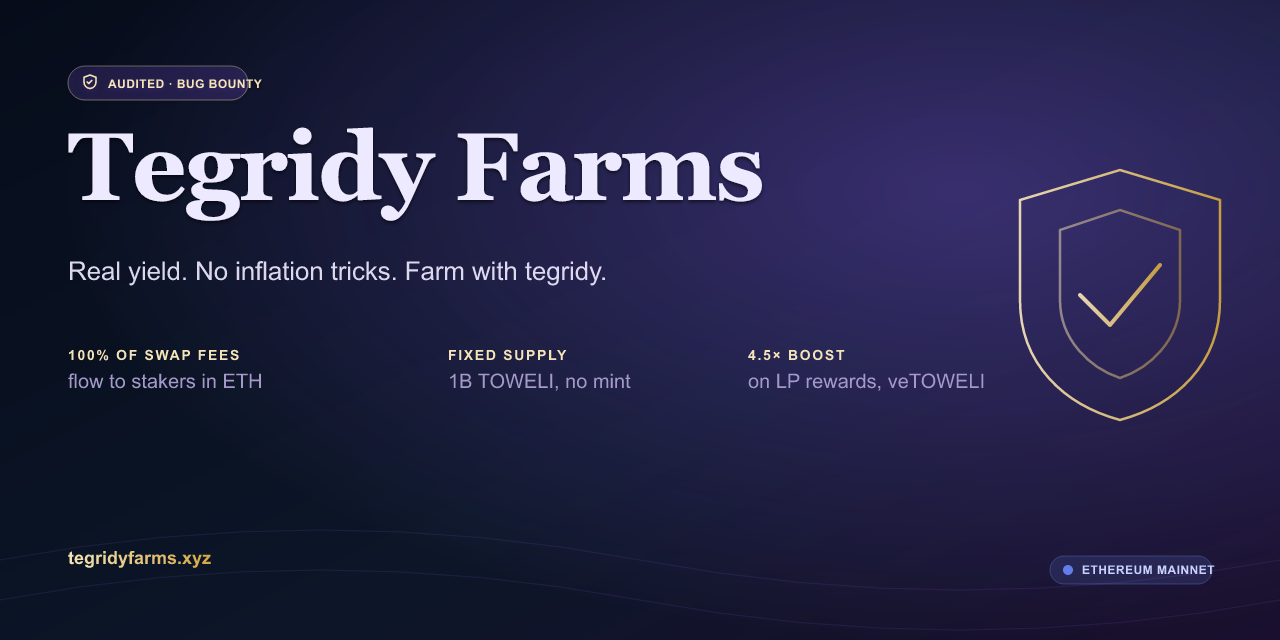
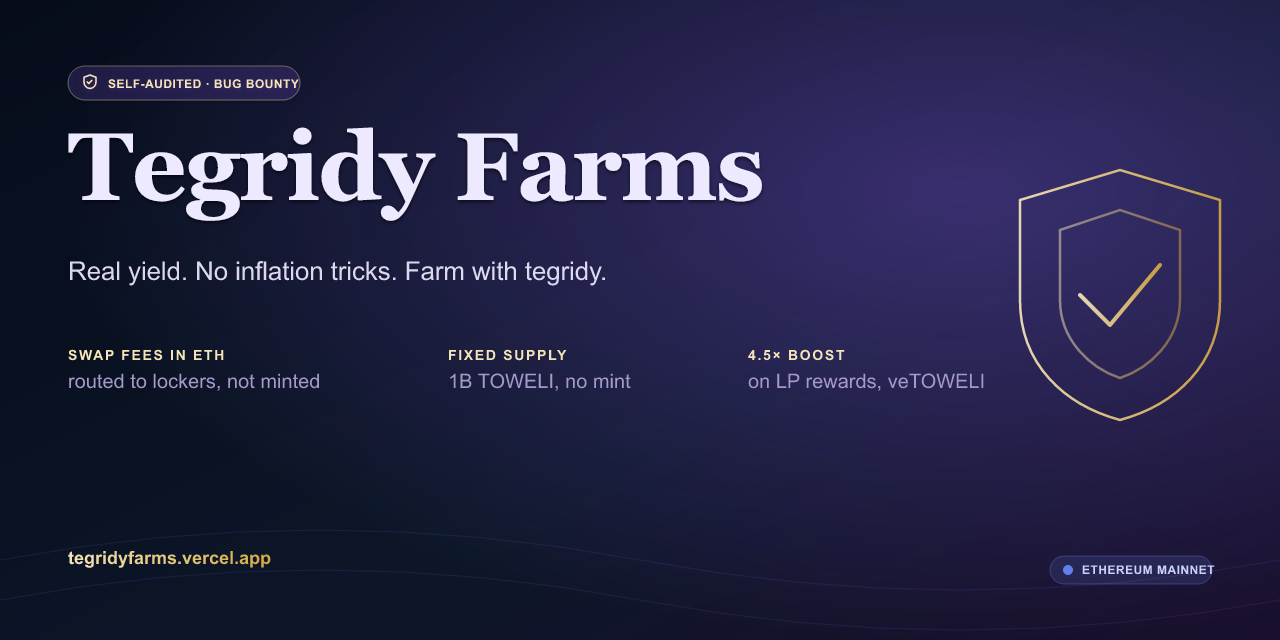
fix(honesty): retire ghost links, false claims, and dead references across shipped surfaces
- LaunchPage + CurveLaunchPage: stop linking the removed /solana-launch
  route with copy claiming the retired Meteora rail exists; say the
  retirement out loud and point at the surviving curve. meteoraRetired
  tripwire extended to catch in-page JSX links (the gap both shipped
  through).
- og.svg/og.png: drop the retracted '100% OF SWAP FEES' claim every
  social unfurl still showed, correct 4.5x boost to the real 4.0x, and
  replace the deprecated vercel.app origin with memetic.fun. Regenerated
  via scripts/render-og-png.mjs (docs/banner.png rides along).
- security.txt: canonical + scope now name memetic.fun (was only the
  vercel.app origin it is served from).
- vercel.json: vanity redirects /tradermigos -> /nakamigos and
  /scanner -> /scan (both 404'd as typed URLs of the products' own names).
- theme-init.js: stop honoring the removed 'light' value.
- referrals.js cited api/__tests__/referrals-surface-parity.test.js as
  pinning its service-role query shape; that file did not exist. It does
  now, and pins exactly what the comment promises.
- constants.ts: restaking comment updated (split LANDED 08-19; gate is
  the re-audit + a real Safe, not size).
- AUDITS.md: remove the Immunefi bounty link that never existed.
- AUDIT_RFQ.md: correct 'Not deployed' — both programs deployed 08-08
  and were closed by 08-15; ids permanently spent.
- cp-swap lib.rs: delete the two header paragraphs instructing the exact
[…]

Changed region(s): [[0.0312, 0.5312, 0.25, 0.625], [0.0938, 0.0938, 0.25, 0.1562], [0.125, 0.8438, 0.2188, 0.9062]]

diff --git a/frontend/api/__tests__/referrals-surface-parity.test.js b/frontend/api/__tests__/referrals-surface-parity.test.js
@@ -1,0 +1,54 @@
+// The referrals service-role query stays shape-pinned.
+//
+// _lib/referrals.js:60 has cited this file by name since the resolve surface
+// shipped — but the file did not exist until 2026-08-24, so the "shape-pinned
+// by" claim was read-laundering: a safety property asserted in prose with no
+// enforcement behind it. This is the enforcement.
+//
+// WHY THE PIN MATTERS: `resolve` is the table's public face and runs under the
+// SERVICE ROLE, which bypasses RLS entirely. The query filter is therefore the
+// whole access control: `select=wallet` + `code=eq.<one code>` + `limit=1`
+// answers "who owns THIS code" and nothing else. A second service-role query,
+// a `select=*`, or a missing eq-filter turns it into an enumeration of every
+// referrer's wallet, readable by anyone — the exact shape airdrop.js refuses
+// to expose a recipient list for.
+
+import { describe, it, expect } from "vitest";
+import { readFileSync } from "node:fs";
+import { fileURLToPath } from "node:url";
+import { dirname, join } from "node:path";
+
+const HERE = dirname(fileURLToPath(import.meta.url));
+const SRC = readFileSync(join(HERE, "..", "_lib", "referrals.js"), "utf8");
+
+/** Lines of actual code — comments stripped so prose can discuss the ban. */
+const CODE = SRC.split("\n")
+  .map((l) => l.replace(/\/\/.*$/, "").replace(/^\s*\*.*$/, ""))
+  .join("\n");
+
+describe("referrals service-role surface parity", () => {
+  it("exactly one query passes the service key, and it is the pinned resolve shape", () => {
+    // The service key appears once in configuration and once at the resolve
+    // call site. Any additional `key: cfg.serviceKey` is a new RLS-bypassing
+    // query this test exists to refuse.
+    const serviceUses = CODE.match(/key:\s*cfg\.serviceKey/g) ?? [];
+    expect(serviceUses).toHaveLength(1);
+  });
+
+  it("the resolve query selects only the wallet column, filtered to one code, limit 1", () => {
+    const pinned = CODE.match(
+      /\?select=wallet&code=eq\.\$\{encodeURIComponent\(raw\)\}&limit=1/g,
+    ) ?? [];
+    expect(pinned, "the pinned resolve query shape changed or disappeared").toHaveLength(1);
+  });
+
+  it("no query on the table ever selects *", () => {
+    expect(CODE.includes("select=*"), "select=* on referral_codes enumerates every referrer's wallet").toBe(false);
+  });
+
+  it("the JWT-scoped queries use the anon key, never the service key", () => {
+    // `mine` and `claim` must ride the caller's own SIWE JWT through RLS.
+    const anonUses = CODE.match(/key:\s*cfg\.anonKey/g) ?? [];
+    expect(anonUses.length).toBeGreaterThanOrEqual(2);
+  });
+});

diff --git a/frontend/src/lib/launcher/meteoraRetired.test.ts b/frontend/src/lib/launcher/meteoraRetired.test.ts
@@ -142,6 +142,33 @@ describe('the Meteora DBC rail stays retired', () => {
     expect(offenders, `retired-rail claims still in shipped copy:\n${offenders.join('\n')}`).toEqual([]);
   });
 
+  it('no shipped JSX links to the removed route', () => {
+    // Added 2026-08-24: LaunchPage.tsx:1199 and CurveLaunchPage.tsx:819 shipped
+    // live <Link to="/solana-launch"> cross-links for a day after the retirement
+    // — the ROUTE_DEFINITIONS guard above checks only App.tsx and navConfig, so
+    // in-page links dead-ending on the 404 sailed straight through. This scans
+    // every shipped file for a Link/navigate to the removed route. Test files
+    // are exempt (navConfig.test legitimately asserts the entry is absent).
+    const LINK_RE = /\bto=["']\/solana-launch["']/;
+    const NAV_RE = /navigate\(\s*["']\/solana-launch["']/;
+    // Guard the guard: the exact line that shipped must match.
+    expect(LINK_RE.test('<Link to="/solana-launch" className="underline">')).toBe(true);
+
+    const offenders: string[] = [];
+    for (const file of walk(SRC)) {
+      if (/\.test\.tsx?$/.test(file)) continue;
+      readFileSync(file, 'utf8')
+        .split(/\r?\n/)
+        .forEach((line, i) => {
+          const code = codeOnly(line);
+          if (LINK_RE.test(code) || NAV_RE.test(code)) {
+            offenders.push(`${file.slice(SRC.length + 1)}:${i + 1} — ${line.trim().slice(0, 120)}`);
+          }
+        });
+    }
+    expect(offenders, `live links to the removed /solana-launch route:\n${offenders.join('\n')}`).toEqual([]);
+  });
+
   it('still allows the history to be written down', () => {
     // Guard the guard. If the patterns ever widen into a blanket ban on the word, the
     // registry entries and every retirement note become unwritable, and the next session

diff --git a/frontend/src/pages/LaunchPage.tsx b/frontend/src/pages/LaunchPage.tsx
@@ -1189,15 +1189,15 @@ function LauncherExplainer() {
         Planning a launch? Preview your distribution band and Fact-Sheet tier and fix concentration first with the{' '}
         <Link to="/launch-simulator" className="text-emerald-400/80 hover:text-emerald-300 underline transition-colors">Launch Simulator</Link>.
       </p>
-      {/* Cross-link to the Solana sub-brand rail. Secondary by design: the destination is a
-          CONFIG PREVIEW with no in-app submit path (SOLANA_LAUNCHER_ENABLED = true since
-          2026-07-27, but the page never signs), so this is wayfinding, not a call to
-          action. Fee capture only — no TOWELI on Solana. */}
+      {/* The Meteora rail was retired 2026-08-23 and /solana-launch was removed with
+          deliberately no redirect — this cross-link now points at the surviving Solana
+          surface (our own curve) and says the retirement out loud rather than implying
+          a rail that no longer exists. */}
       <p className="text-white/40 text-xs leading-relaxed">
-        There is also a Solana leg — a separate fee-capture sub-brand over Meteora&rsquo;s Dynamic Bonding Curve, with no
-        TOWELI on Solana and no AMM of our own there. You sign and submit that launch yourself.{' '}
-        <Link to="/solana-launch" className="text-white/60 hover:text-white underline transition-colors">
-          See the Solana rail
+        The old Solana leg over Meteora&rsquo;s Dynamic Bonding Curve was retired on 2026-08-23. The Solana story now runs
+        through our own curve program — no TOWELI on Solana, fee capture only.{' '}
+        <Link to="/curve-launch" className="text-white/60 hover:text-white underline transition-colors">
+          See the Tegridy Curve
         </Link>
       </p>
     </div>

diff --git a/frontend/public/theme-init.js b/frontend/public/theme-init.js
@@ -10,13 +10,17 @@
  * 'unsafe-inline' from script-src in vercel.json.
  */
 (function () {
+  // The app is dark-only: the light theme was removed and ThemeContext migrates
+  // any stale `tegridy-theme: 'light'` out of localStorage on mount. Honoring
+  // 'light' here stamped data-theme="light" + a lavender theme-color for the
+  // pre-hydration window with no light CSS behind it. Always dark; the
+  // localStorage read stays only so the storage key remains documented in one
+  // greppable place alongside ThemeContext.
   try {
-    var t = localStorage.getItem('tegridy-theme');
-    if (t !== 'dark' && t !== 'light') t = 'dark';
-    document.documentElement.setAttribute('data-theme', t);
-    var meta = document.querySelector('meta[name="theme-color"]');
-    if (meta) meta.setAttribute('content', t === 'dark' ? '#060c1a' : '#f5f3ff');
-  } catch (_e) {
     document.documentElement.setAttribute('data-theme', 'dark');
+    var meta = document.querySelector('meta[name="theme-color"]');
+    if (meta) meta.setAttribute('content', '#060c1a');
+  } catch (_e) {
+    /* dark is the default markup state; nothing to recover */
   }
 })();

diff --git a/frontend/src/lib/constants.ts b/frontend/src/lib/constants.ts
@@ -20,7 +20,10 @@ export const LEGACY_STAKING_ADDRESSES = [
   '0x044A925839ac3CEC0bccC93d00230f39FFbeEe44',
   '0x626644523d34B84818df602c991B4a06789C4819',
 ] as const;
-// Restaking DEFERRED to Phase 7 (EIP-170 split). Zeroed until deployed; UI gates on isDeployed().
+// Restaking: the EIP-170 split LANDED 2026-08-19 (admin sister, host 22,114 B —
+// 2,462 B under the limit). Deploy is now gated on the external re-audit and a
+// real Safe for MULTISIG (docs/OPERATOR_NEXT.md §C4/§C5), not on size or a
+// build. Zeroed until deployed; UI gates on isDeployed().
 export const TEGRIDY_RESTAKING_ADDRESS = '0x0000000000000000000000000000000000000000' as const;
 
 // EIP-170 admin sister contracts — RELAUNCH 2026-06-06 (deployed + wired by DeployMVP).

diff --git a/frontend/src/pages/CurveLaunchPage.tsx b/frontend/src/pages/CurveLaunchPage.tsx
@@ -816,10 +816,7 @@ function CurveExplainer() {
           and closes the curve — all or nothing, so there is no half-migrated state to get stuck in.
         </p>
         <p className="text-white/40">
-          <Link to="/solana-launch" className="text-white/60 hover:text-white underline transition-colors">
-            The Meteora rail
-          </Link>{' '}
-          is a separate surface and is unaffected by any of this.
+          The Meteora rail was retired on 2026-08-23 — this curve is now the only Solana launch surface here.
         </p>
       </Card>
 

diff --git a/solana/tegridy-amm/programs/cp-swap/src/lib.rs b/solana/tegridy-amm/programs/cp-swap/src/lib.rs
@@ -30,14 +30,12 @@ solana_security_txt::security_txt! {
 // NOT here: it accrues per `amm_config.protocol_fee_rate` and is collected by
 // `amm_config.protocol_owner` (which create_config sets = the admin caller).
 //
-// FAIL-CLOSED MAINNET: the non-devnet branches of the AUTHORITY constants are the
-// System-Program sentinel (all-1s), NOT the devnet keys — so an accidental default
-// (non-devnet) build yields a NON-FUNCTIONAL program (admin can't sign; the fee
-// receiver isn't a token account) rather than one silently controlled by the devnet
-// throwaway keys. CI + devnet builds pass `--features devnet`.
-// ⚠ OPERATOR before MAINNET: set the non-devnet values — a fresh program keypair,
-// admin = Squads MULTISIG, create_pool_fee_reveiver = the treasury's WSOL ATA (a
-// native-SOL TOKEN ACCOUNT, NOT a wallet) — then do a verifiable build.
+// (Two header paragraphs deleted 2026-08-24: one claimed the non-devnet authority
+// constants were fail-closed all-1s sentinels — false, the real values below are
+// live keys — and one instructed "admin = Squads MULTISIG", the exact compile-time
+// mistake that shipped 2026-08-08 and bricked graduation. The authoritative
+// guidance is the admin module's own comment below: the constant must be a
+// SIGNABLE, SYSTEM-OWNED, rent-paying account, never the Squads multisig account.)
 #[cfg(feature = "devnet")]
 declare_id!("BvBkt84ZiKmiPSuWrdefxbxPTX5YiLnU6YEGtY6pDodL");
 #[cfg(not(feature = "devnet"))]

diff --git a/solana/tegridy-amm/AUDIT_RFQ.md b/solana/tegridy-amm/AUDIT_RFQ.md
@@ -104,9 +104,12 @@ permissionless total-loss bug and was removed; see `MIGRATE_DESIGN.md`.
 - The migration surplus is swept to whoever calls `migrate_to_amm`, deliberately — it makes
   a permissionless step self-financing rather than a guaranteed loss.
 
-**Not deployed.** Program ID is a documented placeholder and the non-devnet build embeds a
-fail-closed sentinel authority, so a mainnet binary refuses to initialize until an operator
-sets a real key.
+**Deployment history (corrected 2026-08-24 — the previous revision of this section said
+"not deployed", which had been false since 2026-08-08):** both programs WERE deployed to
+mainnet on 2026-08-08 and were CLOSED on/before 2026-08-15 — the program ids are
+permanently spent and can never be reused. Any future deployment is a RESTART with fresh
+keypairs and a new `declare_id!` (see MAINNET_RUNBOOK.md § "THE RESTART, IN ORDER").
+The audit target is therefore the source at the commit under review, not a live program.
 
 ---
 

diff --git a/AUDITS.md b/AUDITS.md
@@ -174,8 +174,10 @@ Each pass narrowed scope; March passes inventoried broadly, April passes tracked
 
 Found something not listed? Report privately:
 
-- **Contact:** the community channels linked on our site
-- **Bounty:** [Immunefi — Tegridy Farms](https://immunefi.com/bounty/tegridyfarms)
+- **Contact:** fomotsar@gmail.com (see `/.well-known/security.txt` on memetic.fun)
+- **Bounty:** no paid bug-bounty program is live yet — when one launches it will be
+  linked here and in security.txt. (An earlier revision linked an Immunefi page
+  that never existed; removed 2026-08-24.)
 - **SLA:** acknowledgement < 48 hours, triage < 5 business days
 
 Include: affected contract/file + line, reproduction or PoC, suggested severity, payout address/handle. Do **not** exploit against mainnet; test on fork or Sepolia.
